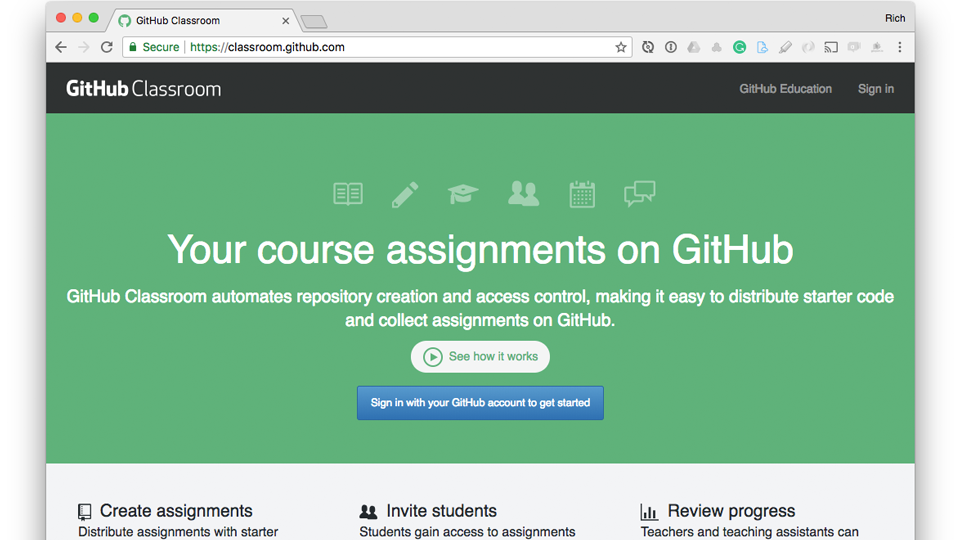
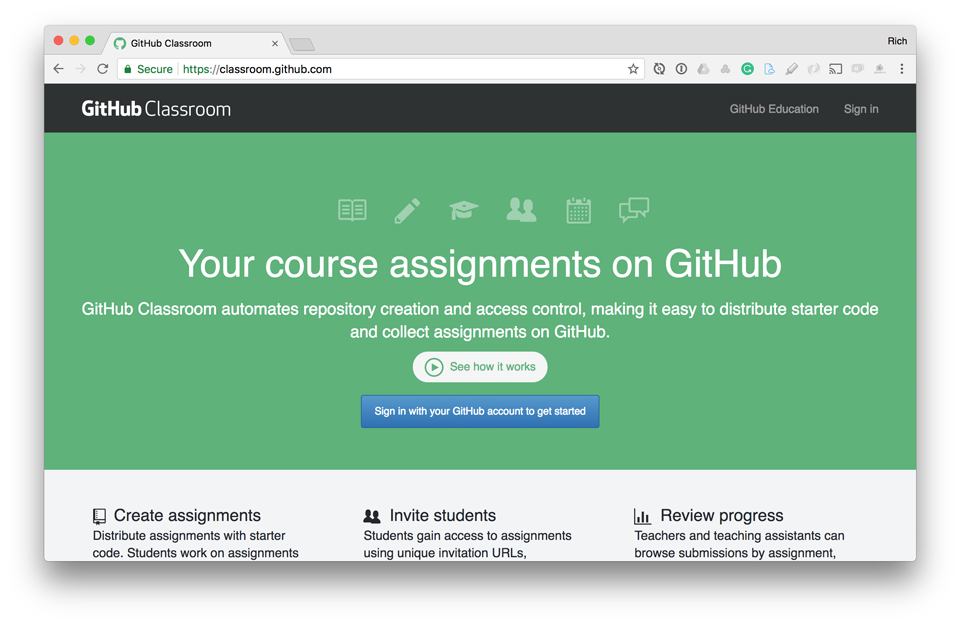
progress?

diff --git a/PITCHME.md b/PITCHME.md
@@ -16,8 +16,10 @@
 @div[right-60]
 @ul
 - PhD in Geography from the University of Wisconsin-Madison
+- teaches web cartography for New Maps Plus
 - from a small town in SW Colorado
-- something funny
+- recently relocated to East St. Louis
+- would never eat a child
 @ulend
 @divend
 
@@ -222,25 +224,23 @@
 
 ### And changes in content are tracked through Git
 
-
 ---
 
-### If we want to get fancy, Node scripts are used to automate course management tasks
+### If we want to get fancy, npm and Node scripts are used to automate course management tasks
 
 ```javascript
-var markdownpdf = require("markdown-pdf"), 
-    fs = require("fs")
+const markdownpdf = require("markdown-pdf");
+const fs = require("fs");
 
+// read course syllabus in Markdown
 fs.createReadStream("./syllabus.md")
-    .pipe(markdownpdf({
+    .pipe(markdownpdf())
 
-    }))
-.pipe(fs.createWriteStream("MAP_673_Syllabus.pdf"))
-
-console.log('PDF syllabus written to file')
+    // create PDF version to file with Uni bureaucracy 
+    .pipe(fs.createWriteStream("MAP_673_Syllabus.pdf"));
 ```
 ---
-#### Summary points of using Git for course management
+#### Using Git and Markdown for course management?
 
 @div[left-40]
 ![management question](assets/images/course-question.png)
@@ -250,7 +250,7 @@ console.log('PDF syllabus written to file')
 @ul[icon-list]
 - @fa[thumbs-up fa=5x fa-green] centralized workflow for course creation and maintence
 - @fa[thumbs-up fa=5x fa-green] easy to share course repo with other schools/instructors (builds community)
-- @fa[thumbs-up fa=5x fa-green] format for writing and editing content used for course deployment
+- @fa[thumbs-up fa=5x fa-green] format for writing and editing content ready for course deployment
 - @fa[thumbs-down fa=4x fa-red] using Git is complicated
 - @fa[thumbs-down fa=4x fa-red] is difficult getting faculty buy-in
 - @fa[thumbs-down fa=4x fa-red] doesn't do much for Geospatial data stored as binary
@@ -262,20 +262,13 @@ console.log('PDF syllabus written to file')
 ## Part II. How using Git improves<br> the learning process
 
 
----
+---?image=assets/images/github-classroom.png&size=90% 90%
 
-### Highly recommended! Use GitHub Classroom
+### Highly recommended:<br> Use GitHub Classroom!
 
-![GitHub Classroom](assets/images/github-classroom.png)
-
-
-
-
----?image=assets/images/starter-template.png&size=auto 100%
+---?image=assets/images/starter-template.png&size=80% auto
 
 ### Starter template for each course module
-
-<!-- ![starter template](assets/images/starter-template.png) -->
 
 
 ---
